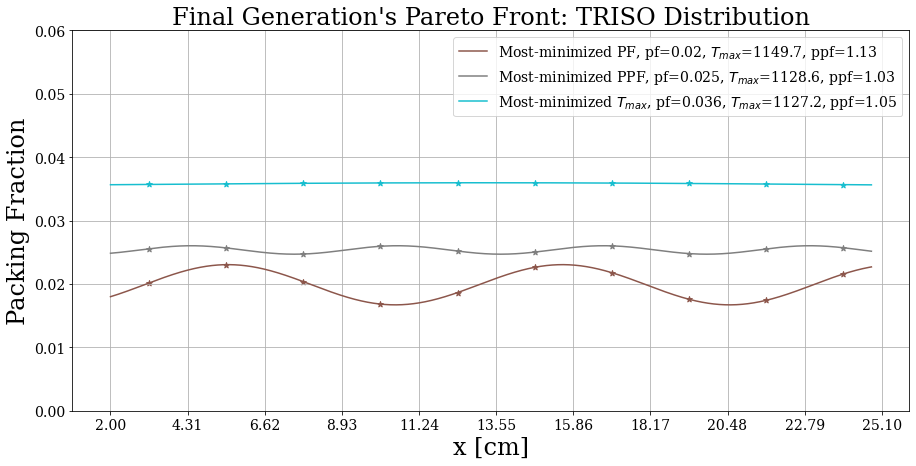
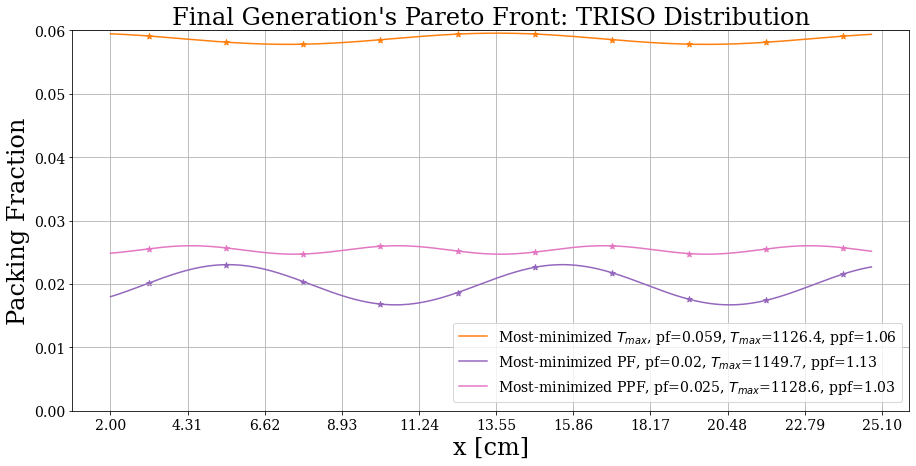
edits

diff --git a/docs/ahtr_rollo_slab.tex b/docs/ahtr_rollo_slab.tex
@@ -940,7 +940,7 @@ confirming that simulation p-3a converges by generation 5.
 \end{table}
 
 Figure \ref{fig:slab-obj-3-3d} shows a 3D plot of the final generation's reactor models' 
-total packing fraction against maximum plank temperature against normalized power 
+total packing fraction against maximum plank temperature against fuel-normalized power 
 peaking factor, crosses mark the reactor models that fall on the Pareto front.
 Figure \ref{fig:slab-obj-3-distr} shows the 14 TRISO distributions in 
 the final generation that fall on the Pareto front. 
@@ -978,10 +978,23 @@ Figure \ref{fig:slab-obj-3-distr} that most-minimized each objective.
     that most minimized each objective.}
     \label{fig:slab-obj-3-distr-most-minimized}
 \end{figure}
-The brown distribution with oscillating fuel packing pattern most-minimized total packing fraction. 
-The blue distribution with a mostly flat fuel distribution most-minimized $T_{max}$. 
-The grey distribution with small oscillating fuel packing pattern most-minimized normalized 
-power peaking factor. 
+The purple distribution with oscillating fuel packing pattern most-minimized total 
+packing fraction. 
+The orange distribution with a mostly flat fuel distribution most-minimized $T_{max}$. 
+The pink distribution with small oscillating fuel packing pattern most-minimized 
+fuel-normalized power peaking factor. 
+
+Most of the \gls{TRISO} distributions on the Pareto front have a mostly flat 
+distribution with approximately $\sim0.1cm$ of variation. 
+The flatness is influenced by the minimize $T_{max}$ objective. 
+As observed in previous sections \ref{sec:plank-1-obj-temp}, \ref{sec:p-2a}, and 
+\ref{sec:p-2c}, a flat \gls{TRISO} distribution minimizes $T_{max}$ objective.
+The variations in \gls{TRISO} distributions are influenced by both the minimize 
+total packing fraction and minimize PPF objectives. 
+The minimize total packing fraction objective tries to minimize self shielding effects 
+to enable a higher $k_{eff}$ for lower total PF. 
+The minimize fuel-normalized power peaking factor objective tries to minimize 
+TRISO distribution in areas with higher flux to minimize fuel-normalized power peaking.
 
 \subsection{p-3b: Variation of $\rho_{TRISO}(\vec{r})$, Total Packing Fraction, and FliBe Channel Shape}
 Table \ref{tab:simulationp3b} shows simulation p-3b's optimization problem parameters. 
